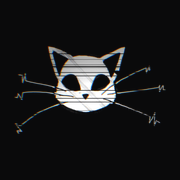
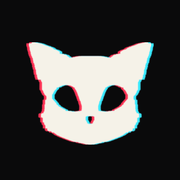
Icono para Google y pestañas: gato simplificado y legible
- Nuevo icono: cabeza del gato en silueta (orejas rellenas, ojos huecos,
  sin bigotes ni rayas) centrada para el recorte circular de Google.
- favicon.ico en la raíz (16/32/48) y PNG de 96, 180, 192 y 512 px.
- site.webmanifest y datos estructurados (WebSite/Organization) para que
  Google muestre "THE THING" como nombre del sitio con su logo.

Claude-Session: https://claude.ai/code/session_015CWaXqbJc2Srb7HCHZP2WH

Changed region(s): [[0.0833, 0.2222, 0.9167, 0.8056]]

diff --git a/index.html b/index.html
@@ -14,9 +14,14 @@
   <meta property="og:image:width" content="1200">
   <meta property="og:image:height" content="630">
   <meta name="twitter:card" content="summary_large_image">
-  <link rel="icon" type="image/png" href="assets/img/favicon.png">
-  <link rel="icon" type="image/png" sizes="512x512" href="assets/img/icon-512.png">
+  <meta name="application-name" content="THE THING">
+  <meta name="apple-mobile-web-app-title" content="THE THING">
+  <link rel="icon" href="/favicon.ico" sizes="48x48">
+  <link rel="icon" type="image/png" sizes="96x96" href="assets/img/favicon.png">
+  <link rel="icon" type="image/png" sizes="192x192" href="assets/img/icon-192.png">
   <link rel="apple-touch-icon" href="assets/img/apple-touch-icon.png">
+  <link rel="manifest" href="site.webmanifest">
+  <script type="application/ld+json">{"@context":"https://schema.org","@graph":[{"@type":"WebSite","name":"THE THING","alternateName":"The Thing Game Studio","url":"https://thethinggame.com/"},{"@type":"Organization","name":"THE THING","url":"https://thethinggame.com/","logo":"https://thethinggame.com/assets/img/icon-512.png"}]}</script>
   <link rel="stylesheet" href="assets/css/style.css?v=7">
 </head>
 <body class="fx-on" data-page="home">

diff --git a/privacidad.html b/privacidad.html
@@ -14,9 +14,13 @@
   <meta property="og:image:width" content="1200">
   <meta property="og:image:height" content="630">
   <meta name="twitter:card" content="summary_large_image">
-  <link rel="icon" type="image/png" href="assets/img/favicon.png">
-  <link rel="icon" type="image/png" sizes="512x512" href="assets/img/icon-512.png">
+  <meta name="application-name" content="THE THING">
+  <meta name="apple-mobile-web-app-title" content="THE THING">
+  <link rel="icon" href="/favicon.ico" sizes="48x48">
+  <link rel="icon" type="image/png" sizes="96x96" href="assets/img/favicon.png">
+  <link rel="icon" type="image/png" sizes="192x192" href="assets/img/icon-192.png">
   <link rel="apple-touch-icon" href="assets/img/apple-touch-icon.png">
+  <link rel="manifest" href="site.webmanifest">
   <link rel="stylesheet" href="assets/css/style.css?v=7">
 </head>
 <body class="fx-on legal-page" data-page="privacidad">

diff --git a/terminos.html b/terminos.html
@@ -14,9 +14,13 @@
   <meta property="og:image:width" content="1200">
   <meta property="og:image:height" content="630">
   <meta name="twitter:card" content="summary_large_image">
-  <link rel="icon" type="image/png" href="assets/img/favicon.png">
-  <link rel="icon" type="image/png" sizes="512x512" href="assets/img/icon-512.png">
+  <meta name="application-name" content="THE THING">
+  <meta name="apple-mobile-web-app-title" content="THE THING">
+  <link rel="icon" href="/favicon.ico" sizes="48x48">
+  <link rel="icon" type="image/png" sizes="96x96" href="assets/img/favicon.png">
+  <link rel="icon" type="image/png" sizes="192x192" href="assets/img/icon-192.png">
   <link rel="apple-touch-icon" href="assets/img/apple-touch-icon.png">
+  <link rel="manifest" href="site.webmanifest">
   <link rel="stylesheet" href="assets/css/style.css?v=7">
 </head>
 <body class="fx-on legal-page" data-page="terminos">

diff --git a/cookies.html b/cookies.html
@@ -14,9 +14,13 @@
   <meta property="og:image:width" content="1200">
   <meta property="og:image:height" content="630">
   <meta name="twitter:card" content="summary_large_image">
-  <link rel="icon" type="image/png" href="assets/img/favicon.png">
-  <link rel="icon" type="image/png" sizes="512x512" href="assets/img/icon-512.png">
+  <meta name="application-name" content="THE THING">
+  <meta name="apple-mobile-web-app-title" content="THE THING">
+  <link rel="icon" href="/favicon.ico" sizes="48x48">
+  <link rel="icon" type="image/png" sizes="96x96" href="assets/img/favicon.png">
+  <link rel="icon" type="image/png" sizes="192x192" href="assets/img/icon-192.png">
   <link rel="apple-touch-icon" href="assets/img/apple-touch-icon.png">
+  <link rel="manifest" href="site.webmanifest">
   <link rel="stylesheet" href="assets/css/style.css?v=7">
 </head>
 <body class="fx-on legal-page" data-page="cookies">

diff --git a/normas.html b/normas.html
@@ -14,9 +14,13 @@
   <meta property="og:image:width" content="1200">
   <meta property="og:image:height" content="630">
   <meta name="twitter:card" content="summary_large_image">
-  <link rel="icon" type="image/png" href="assets/img/favicon.png">
-  <link rel="icon" type="image/png" sizes="512x512" href="assets/img/icon-512.png">
+  <meta name="application-name" content="THE THING">
+  <meta name="apple-mobile-web-app-title" content="THE THING">
+  <link rel="icon" href="/favicon.ico" sizes="48x48">
+  <link rel="icon" type="image/png" sizes="96x96" href="assets/img/favicon.png">
+  <link rel="icon" type="image/png" sizes="192x192" href="assets/img/icon-192.png">
   <link rel="apple-touch-icon" href="assets/img/apple-touch-icon.png">
+  <link rel="manifest" href="site.webmanifest">
   <link rel="stylesheet" href="assets/css/style.css?v=7">
 </head>
 <body class="fx-on legal-page" data-page="normas">

diff --git a/tienda.html b/tienda.html
@@ -14,9 +14,13 @@
   <meta property="og:image:width" content="1200">
   <meta property="og:image:height" content="630">
   <meta name="twitter:card" content="summary_large_image">
-  <link rel="icon" type="image/png" href="assets/img/favicon.png">
-  <link rel="icon" type="image/png" sizes="512x512" href="assets/img/icon-512.png">
+  <meta name="application-name" content="THE THING">
+  <meta name="apple-mobile-web-app-title" content="THE THING">
+  <link rel="icon" href="/favicon.ico" sizes="48x48">
+  <link rel="icon" type="image/png" sizes="96x96" href="assets/img/favicon.png">
+  <link rel="icon" type="image/png" sizes="192x192" href="assets/img/icon-192.png">
   <link rel="apple-touch-icon" href="assets/img/apple-touch-icon.png">
+  <link rel="manifest" href="site.webmanifest">
   <link rel="stylesheet" href="assets/css/style.css?v=7">
 </head>
 <body class="fx-on store-page" data-page="tienda">

diff --git a/aviso-legal.html b/aviso-legal.html
@@ -14,9 +14,13 @@
   <meta property="og:image:width" content="1200">
   <meta property="og:image:height" content="630">
   <meta name="twitter:card" content="summary_large_image">
-  <link rel="icon" type="image/png" href="assets/img/favicon.png">
-  <link rel="icon" type="image/png" sizes="512x512" href="assets/img/icon-512.png">
+  <meta name="application-name" content="THE THING">
+  <meta name="apple-mobile-web-app-title" content="THE THING">
+  <link rel="icon" href="/favicon.ico" sizes="48x48">
+  <link rel="icon" type="image/png" sizes="96x96" href="assets/img/favicon.png">
+  <link rel="icon" type="image/png" sizes="192x192" href="assets/img/icon-192.png">
   <link rel="apple-touch-icon" href="assets/img/apple-touch-icon.png">
+  <link rel="manifest" href="site.webmanifest">
   <link rel="stylesheet" href="assets/css/style.css?v=7">
 </head>
 <body class="fx-on legal-page" data-page="aviso">

diff --git a/noticias.html b/noticias.html
@@ -14,9 +14,13 @@
   <meta property="og:image:width" content="1200">
   <meta property="og:image:height" content="630">
   <meta name="twitter:card" content="summary_large_image">
-  <link rel="icon" type="image/png" href="assets/img/favicon.png">
-  <link rel="icon" type="image/png" sizes="512x512" href="assets/img/icon-512.png">
+  <meta name="application-name" content="THE THING">
+  <meta name="apple-mobile-web-app-title" content="THE THING">
+  <link rel="icon" href="/favicon.ico" sizes="48x48">
+  <link rel="icon" type="image/png" sizes="96x96" href="assets/img/favicon.png">
+  <link rel="icon" type="image/png" sizes="192x192" href="assets/img/icon-192.png">
   <link rel="apple-touch-icon" href="assets/img/apple-touch-icon.png">
+  <link rel="manifest" href="site.webmanifest">
   <link rel="stylesheet" href="assets/css/style.css?v=7">
 </head>
 <body class="fx-on" data-page="noticias">

diff --git a/galeria.html b/galeria.html
@@ -14,9 +14,13 @@
   <meta property="og:image:width" content="1200">
   <meta property="og:image:height" content="630">
   <meta name="twitter:card" content="summary_large_image">
-  <link rel="icon" type="image/png" href="assets/img/favicon.png">
-  <link rel="icon" type="image/png" sizes="512x512" href="assets/img/icon-512.png">
+  <meta name="application-name" content="THE THING">
+  <meta name="apple-mobile-web-app-title" content="THE THING">
+  <link rel="icon" href="/favicon.ico" sizes="48x48">
+  <link rel="icon" type="image/png" sizes="96x96" href="assets/img/favicon.png">
+  <link rel="icon" type="image/png" sizes="192x192" href="assets/img/icon-192.png">
   <link rel="apple-touch-icon" href="assets/img/apple-touch-icon.png">
+  <link rel="manifest" href="site.webmanifest">
   <link rel="stylesheet" href="assets/css/style.css?v=7">
 </head>
 <body class="fx-on" data-page="galeria">

diff --git a/soporte.html b/soporte.html
@@ -14,9 +14,13 @@
   <meta property="og:image:width" content="1200">
   <meta property="og:image:height" content="630">
   <meta name="twitter:card" content="summary_large_image">
-  <link rel="icon" type="image/png" href="assets/img/favicon.png">
-  <link rel="icon" type="image/png" sizes="512x512" href="assets/img/icon-512.png">
+  <meta name="application-name" content="THE THING">
+  <meta name="apple-mobile-web-app-title" content="THE THING">
+  <link rel="icon" href="/favicon.ico" sizes="48x48">
+  <link rel="icon" type="image/png" sizes="96x96" href="assets/img/favicon.png">
+  <link rel="icon" type="image/png" sizes="192x192" href="assets/img/icon-192.png">
   <link rel="apple-touch-icon" href="assets/img/apple-touch-icon.png">
+  <link rel="manifest" href="site.webmanifest">
   <link rel="stylesheet" href="assets/css/style.css?v=7">
 </head>
 <body class="fx-on" data-page="soporte">

diff --git a/juegos.html b/juegos.html
@@ -14,9 +14,13 @@
   <meta property="og:image:width" content="1200">
   <meta property="og:image:height" content="630">
   <meta name="twitter:card" content="summary_large_image">
-  <link rel="icon" type="image/png" href="assets/img/favicon.png">
-  <link rel="icon" type="image/png" sizes="512x512" href="assets/img/icon-512.png">
+  <meta name="application-name" content="THE THING">
+  <meta name="apple-mobile-web-app-title" content="THE THING">
+  <link rel="icon" href="/favicon.ico" sizes="48x48">
+  <link rel="icon" type="image/png" sizes="96x96" href="assets/img/favicon.png">
+  <link rel="icon" type="image/png" sizes="192x192" href="assets/img/icon-192.png">
   <link rel="apple-touch-icon" href="assets/img/apple-touch-icon.png">
+  <link rel="manifest" href="site.webmanifest">
   <link rel="stylesheet" href="assets/css/style.css?v=7">
 </head>
 <body class="fx-on" data-page="juegos">

diff --git a/videos.html b/videos.html
@@ -14,9 +14,13 @@
   <meta property="og:image:width" content="1200">
   <meta property="og:image:height" content="630">
   <meta name="twitter:card" content="summary_large_image">
-  <link rel="icon" type="image/png" href="assets/img/favicon.png">
-  <link rel="icon" type="image/png" sizes="512x512" href="assets/img/icon-512.png">
+  <meta name="application-name" content="THE THING">
+  <meta name="apple-mobile-web-app-title" content="THE THING">
+  <link rel="icon" href="/favicon.ico" sizes="48x48">
+  <link rel="icon" type="image/png" sizes="96x96" href="assets/img/favicon.png">
+  <link rel="icon" type="image/png" sizes="192x192" href="assets/img/icon-192.png">
   <link rel="apple-touch-icon" href="assets/img/apple-touch-icon.png">
+  <link rel="manifest" href="site.webmanifest">
   <link rel="stylesheet" href="assets/css/style.css?v=7">
 </head>
 <body class="fx-on" data-page="videos">
